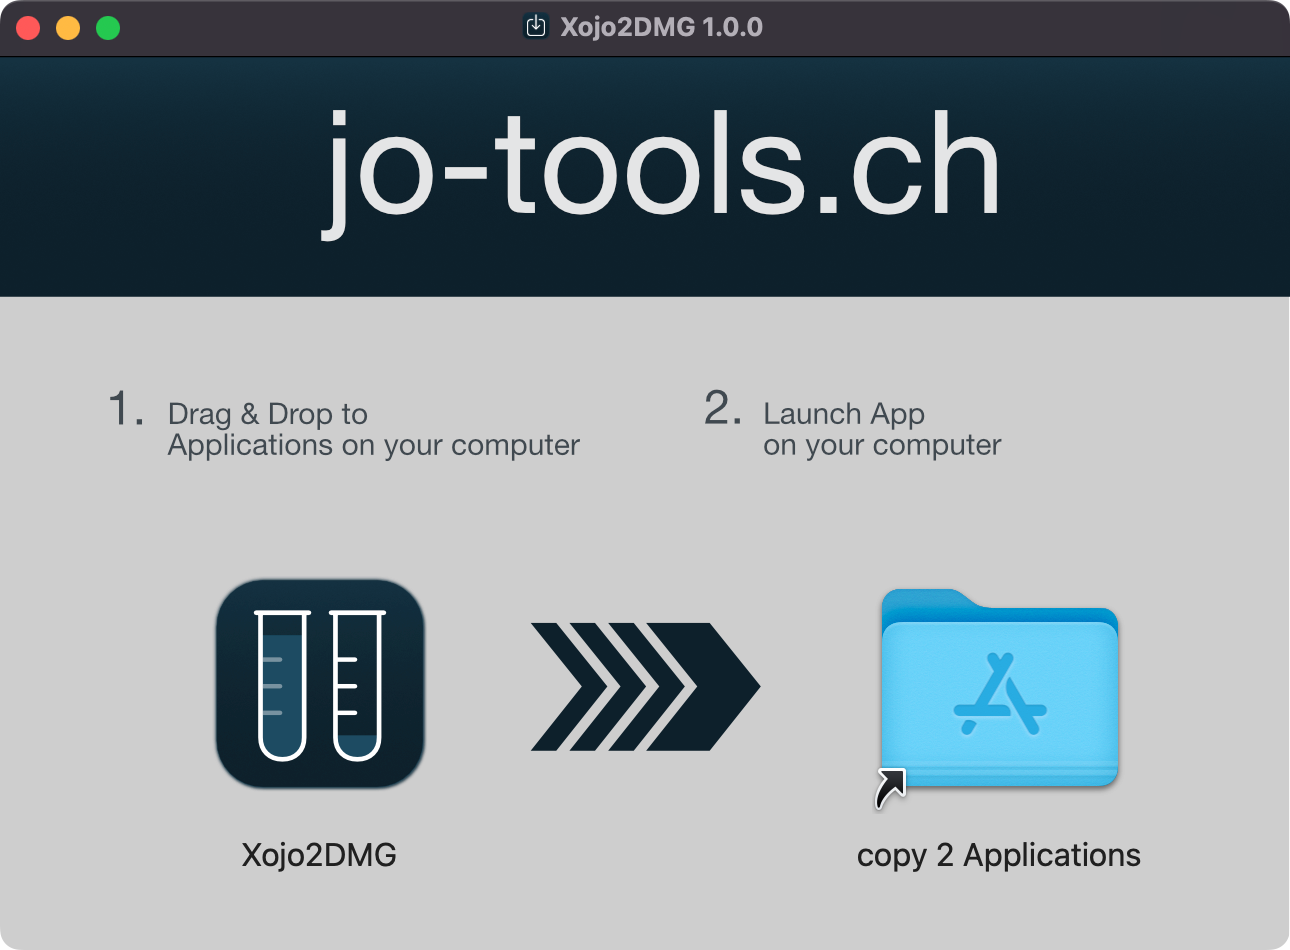
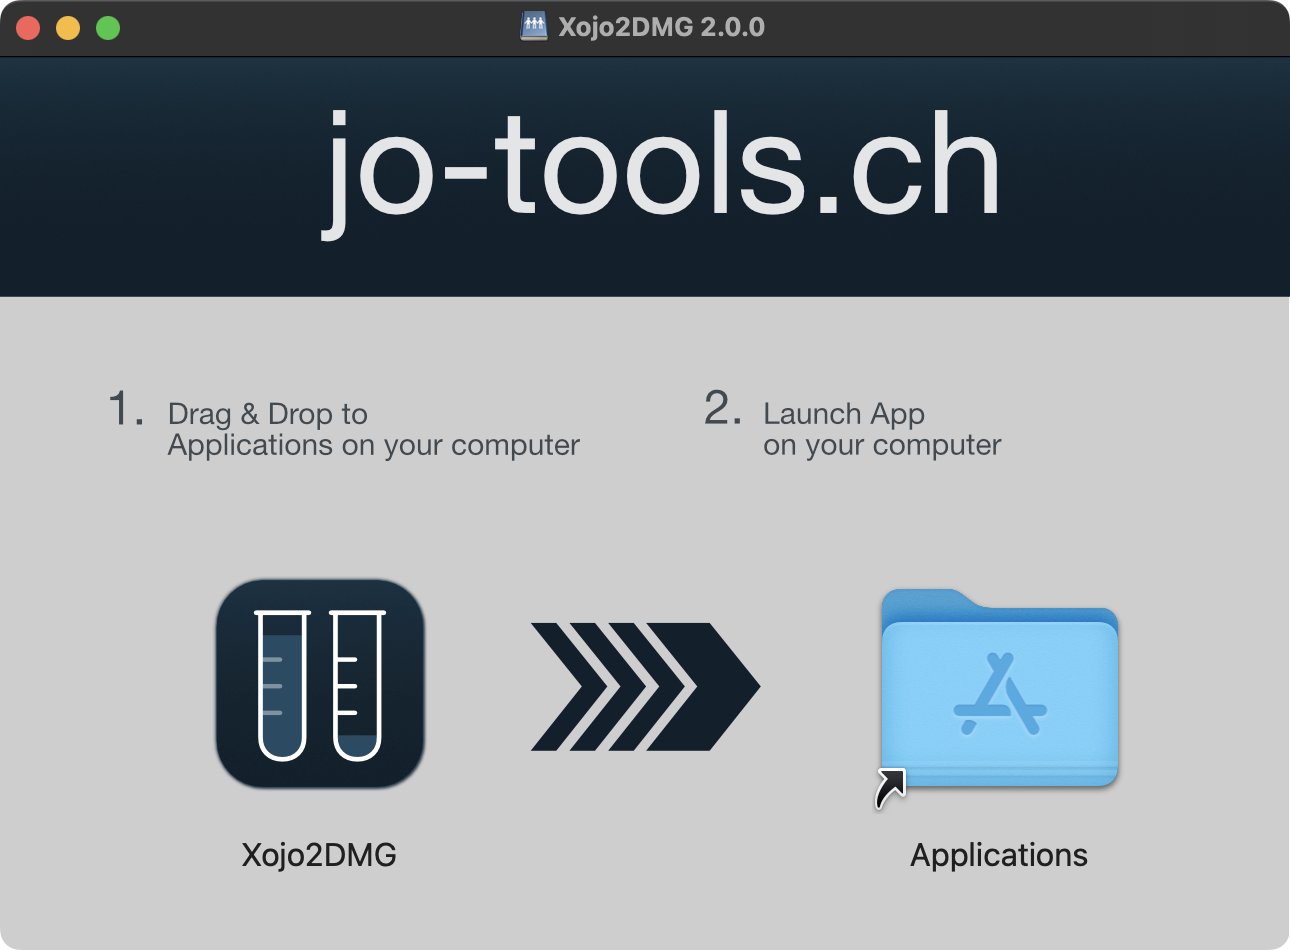
Update ReadMe and ScreenShots

diff --git a/README.md b/README.md
@@ -1,5 +1,5 @@
 # Xojo2DMG
-Xojo2DMG: CodeSign, DMG creation and Notarization (Post Build Script)
+Xojo2DMG: CodeSign, DMG creation and Notarization *(Post Build Script)*
 
 [![License: MIT](https://img.shields.io/badge/License-MIT-green.svg)](LICENSE)
 
@@ -9,19 +9,19 @@ A requirement for that is to CodeSign with Hardened Runtime. This might lead to 
 That's why I encourage everyone to CodeSign *(with Hardened Runtime)* each and every DebugRun on macOS, allowing you to develop and debug as close to a Release Build as possible.
 
 This example shows how a Post Build Script can be used in a Xojo project in order to create a customized DiskImage, sign and notarize both .app and .dmg.
-You can easily customize the DiskImage's appearance by setting a couple of Variables in the Post Build Script. Additionally, even Notarization can be performed fully scripted. That requires to set up an item in your Keychain - see Info in the Script provided.
+You can easily customize the DiskImage's appearance by setting a couple of Variables in the Post Build Script. Additionally, even Notarization can be performed fully scripted. That requires to set up an item in your Keychain - see Info in the Scripts provided.
 
 
 ### Requirements
 1. Xojo running on macOS *(obviously... you can't CodeSign for macOS on Windows)*
 2. CodeSigning, CodeSigning-Validation and Notarization requires Xcode to be installed
-5. Xojo2DMG requires
-   1. to be run on **macOS 11.3** *(or later)*
-   2. have **Xcode 13** *(or later)* installed
+3. Xojo2DMG requires
+   * to be run on **macOS 11.3** *(or later)*
+   * have **Xcode 13** *(or later)* installed
 
 
 ### ScreenShots
-[This DMG](example-build/Xojo2DMG.dmg) has been created with Xojo2DMG *(built with Xojo 2022r2, macOS 12.6, Xcode 14.0.1 for CodeSigning/Notarization)*. It contains the built example app *(built as macOS Universal: x86_64 & ARM64)*.
+[This DMG](example-build/Xojo2DMG.dmg) has been created with Xojo2DMG *(built with Xojo 2023r4, macOS 14.4, Xcode 15.3 for CodeSigning/Notarization)*. It contains the built example app *(built as macOS Universal: x86_64 & ARM64)*.
 ![ScreenShot: Disk Image](screenshots/xojo2dmg_screenshot_1.png?raw=true)
 
 Xojo IDE with the Post Build Script:  
@@ -31,16 +31,15 @@ Xojo IDE with the Post Build Script:
 ### Requirements
 [Xojo](https://www.xojo.com/) is a rapid application development for Desktop, Web, Mobile & Raspberry Pi.  
 
-The Desktop application Xojo example project ```Xojo2DMG.xojo_project``` is using:
-- Xojo 2018r4
-- API 1
+The Desktop application Xojo example project ```Xojo2DMG.xojo_project``` and its Post Build Script is using:
+- Xojo 2023r4
+- API 2
 
 ### How to use in your own Xojo project?
 1. Copy the folder ```scripts``` to your project folder.
-2. Create a PostBuild Script in your project and copy-and-paste the example PostBuild Script provided in Xojo2DMG.
-3. If you're using **Xojo 2022r1** *(or newer)*: make sure this PostBuild Script runs after the Step 'Sign'. Otherwise Xojo will overwrite the CodeSigning again with it's 'Sign' step.  
-   *Note: You even need to do this if you're opening this example project in Xojo 2022r1+. The reason is that Xojo 2018r4 *(which has been used to save this example project)* doesn't have Xojo's 'Sign' step - and all existing Post Build steps are being placed before 'Sign' by default.*
-4. Read the Comments in PostBuild Script, modify according to your needs *(CodeSign Entitlements, Notarization, DMG look and feel)*.
+2. Create a PostBuild Script in your project and copy-and-paste the example PostBuild Script provided in ```Xojo2DMG.xojo_project```.
+3. If you're using **Xojo 2022r1** *(or newer)*: make sure this PostBuild Script runs after the Step 'Sign'. Otherwise Xojo will overwrite the CodeSigning again with it's 'Sign' step.
+4. Read the cComments in the provided Post Build Script, modify it according to your needs *(CodeSign Entitlements, Notarization, DMG look and feel)*.
 
 ## About
 Juerg Otter is a long term user of Xojo and working for [CM Informatik AG](https://cmiag.ch/). Their Application [CMI LehrerOffice](https://cmi-bildung.ch/) is a Xojo Design Award Winner 2018. In his leisure time Juerg provides some [bits and pieces for Xojo Developers](https://www.jo-tools.ch/).
